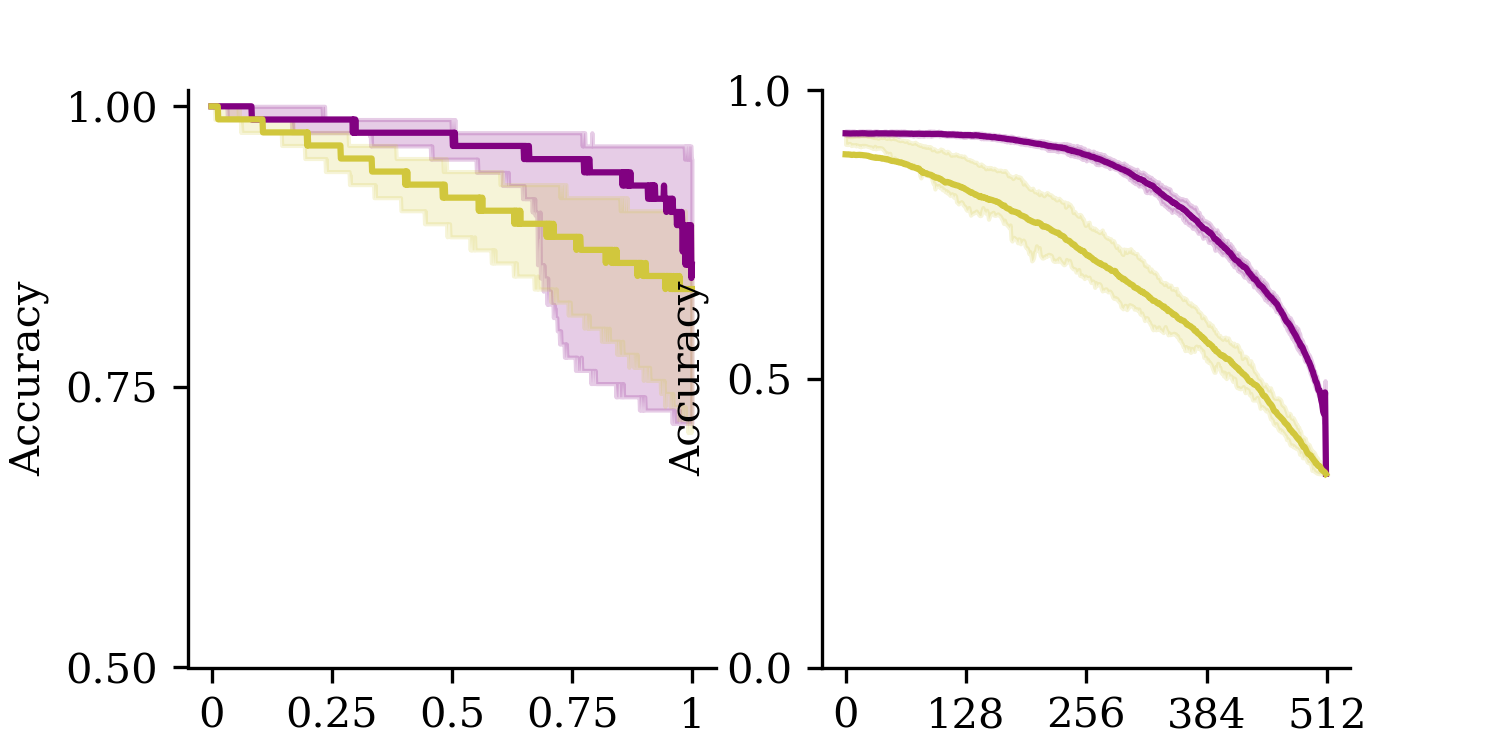
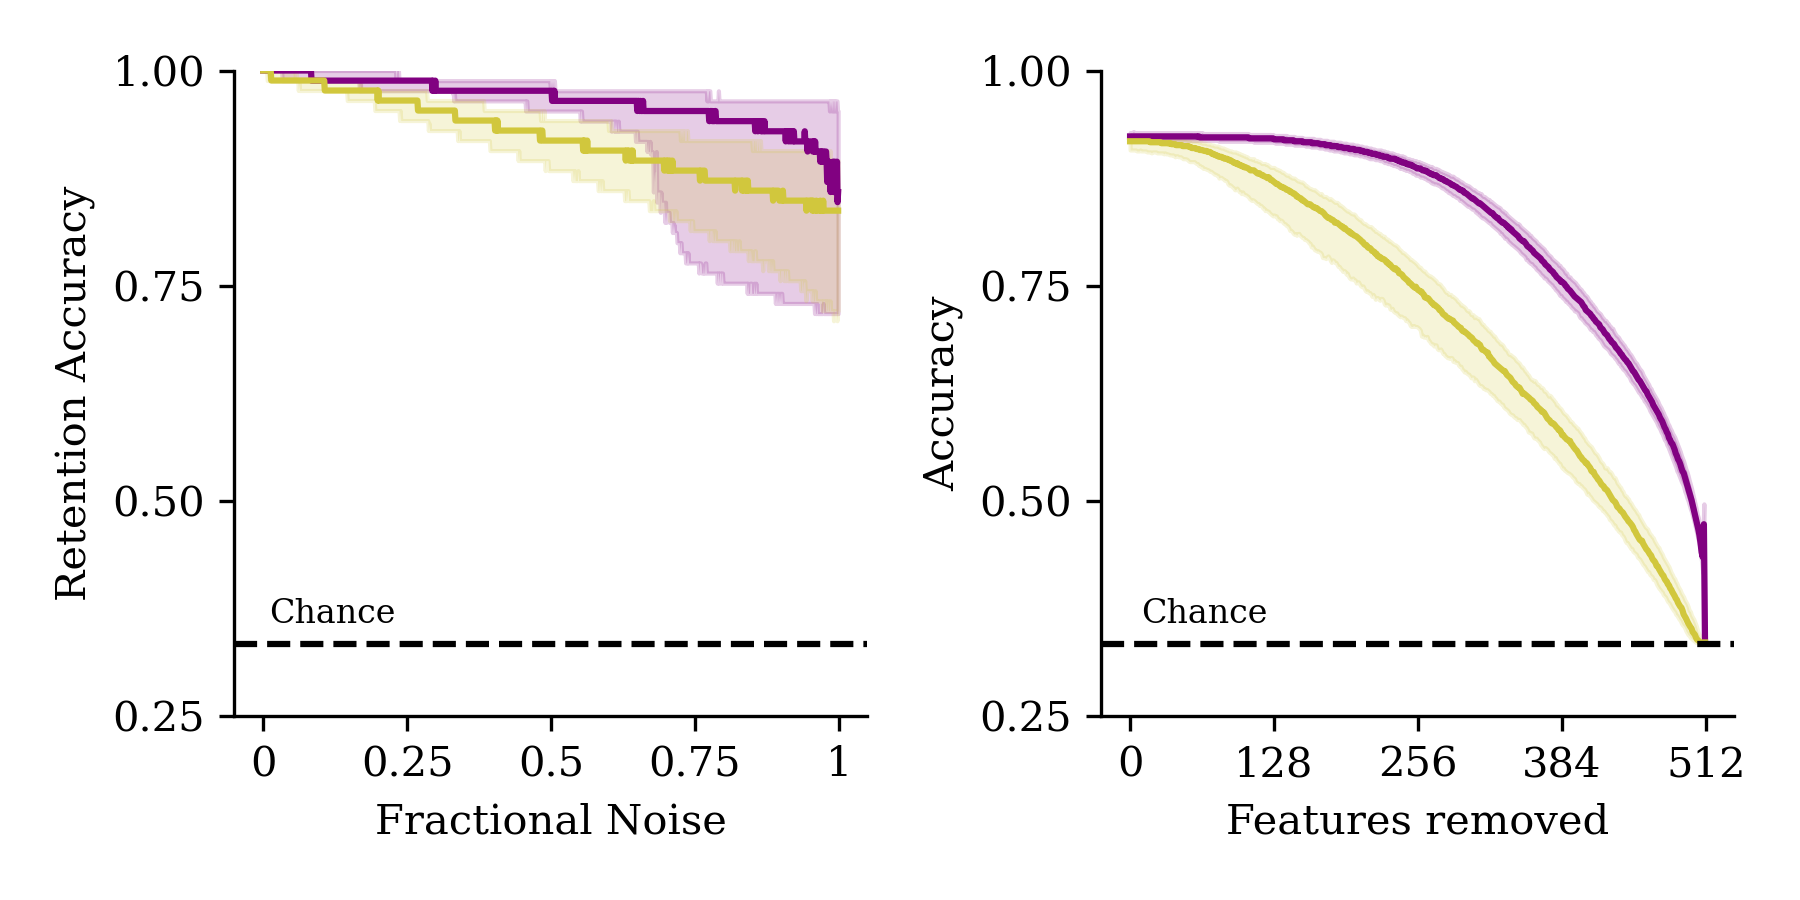
Updated scripts

diff --git a/scripts/ParameterRobustness.py b/scripts/ParameterRobustness.py
@@ -81,8 +81,8 @@ saveSuffix = "{}n{}s{}t-{}r".format(globers["maxNoise"], globers["nSteps"], glob
 ennAccs = np.load(logMan.outputDir + "/ennAccs_{}.npy".format(saveSuffix))
 mlpAccs = np.load(logMan.outputDir + "/mlpAccs_{}.npy".format(saveSuffix))
 
-figWidth = 5
-figHeight = 2.5
+figWidth = 6
+figHeight = 3
 fig, ax = plt.subplots(1, 2, figsize=(figWidth, figHeight))
 
 showQuartiles = True
@@ -97,7 +97,7 @@ if showQuartiles:
                     np.quantile(mlpAccs, 0.75, axis=0), alpha=0.2, color=cC.networkColors["mlp"])
     
 ax[0].set_xlabel("Fractional Noise")
-ax[0].set_ylabel("Accuracy")
+ax[0].set_ylabel("Retention Accuracy")
 
 # Variables
 globers = {
@@ -106,7 +106,7 @@ globers = {
     "trainTestSplit": 0.8,
     "nHiddenLayers": 2,
     "nHiddenNeurons": 3,
-    "nTrials": 50
+    "nTrials": 1000,
 }
 
 enners = {
@@ -134,7 +134,7 @@ for i in range(globers["nTrials"]):
     mdlENN = lB.main_0(xTrain, yTrain, enners["subconceptSelector"], globers["nHiddenNeurons"])
 
     inputWeights = mdlENN.layers[0].weights
-    inputWeightsFrame = np.reshape(inputWeights, (4, 512, 3))
+    inputWeightsFrame = np.reshape(inputWeights, (4, nFeatures, 3))
     inputWeightsFrameAvg = np.mean(np.abs(inputWeightsFrame), axis=0)
     inputWeightsFrameAvgAvg = np.mean(inputWeightsFrameAvg, axis=1)
 
@@ -184,8 +184,8 @@ for i in range(globers["nTrials"]):
 mlpMask = accsMLP[:,0] > 0.5
 convergedMLPs = accsMLP[mlpMask]
 
-ax[1].plot(np.mean(accsENN, axis=0), label="ENN", color=cC.networkColors["enn"])
-ax[1].plot(np.mean(convergedMLPs, axis=0), label="Backprop", color=cC.networkColors["mlp"])
+ax[1].plot(np.median(accsENN, axis=0), label="ENN", color=cC.networkColors["enn"])
+ax[1].plot(np.median(convergedMLPs, axis=0), label="Backprop", color=cC.networkColors["mlp"])
 
 if showQuartiles:
     ax[1].fill_between(range(nFeatures), np.quantile(accsENN, 0.25, axis=0), 
@@ -193,12 +193,24 @@ if showQuartiles:
     ax[1].fill_between(range(nFeatures), np.quantile(convergedMLPs, 0.25, axis=0), 
                     np.quantile(convergedMLPs, 0.75, axis=0), alpha=0.2, color=cC.networkColors["mlp"])
 
-ax[0].set_yticks([0.5, 0.75, 1.0])
-ax[1].set_yticks([0., 0.5, 1.0])
+# Add horizontal line for chance (0.33)
+ax[0].axhline(y=1/3, color='black', linestyle='--')
+ax[1].axhline(y=1/3, color='black', linestyle='--')
+
+# Annotate chance line
+ax[0].text(10, 1/3+.025, "Chance", fontsize=8)
+ax[1].text(10, 1/3+.025, "Chance", fontsize=8)
+
+ax[0].set_ylim([0.25, 1.0])
+ax[1].set_ylim([0.25, 1.0])
+
+ax[0].set_yticks([0.25, 0.5, 0.75, 1.0], labels=["0.25", "0.50", "0.75", "1.00"])
+ax[1].set_yticks([0.25, 0.5, 0.75, 1.0], labels=["0.25", "0.50", "0.75", "1.00"])
 ax[1].set_xticks([0, 128, 256, 384, 512])
 ax[1].set_xlabel("Features removed")
 ax[1].set_ylabel("Accuracy")
 
+fig.tight_layout()
 fig.savefig(logMan.mediaDir + "/Fig3e.png",
             transparent=True, 
             dpi=300)

diff --git a/scripts/VariableSplitsAndReproducibility.py b/scripts/VariableSplitsAndReproducibility.py
@@ -7,7 +7,7 @@ Author: James R. Elder
 Institution: UTSW
 
 DOO: 12-02-2024
-LU: 12-02-2024
+LU: 01-16-2025
 
 Reference(s): 
     - bdENS/develop/scripts/LearningSolution.py
@@ -200,8 +200,8 @@ endHex = "#d1c73d"
 ennGradient = cF.genColorGradient(startHex, cC.networkColors["enn"], nSplits)
 mlpGradient = cF.genColorGradient(startHex, cC.networkColors["mlp"], nSplits)
 
-figWidth = 8
-figHeight = 6
+figWidth = 5
+figHeight = 5
 fig, ax = plt.subplots(4, 3, figsize=((figWidth, figHeight)))
 
 ax[3,0].hist(ennl1weightsNormAbsAvg.flatten(), bins=inputBins, edgecolor='black', color=enners["cPlot"], label="ENN")
@@ -252,12 +252,13 @@ ax[2,0].set_xlim([-0.01, 0.75])
 ax[1,0].set_xlim([-0.01, 0.75])
 ax[3,0].set_xlim([-0.01, 0.75])
 
-ax[0,1].set_xticks([0.01, 0.5, 1], labels=["0.01", "", "1"])
-ax[0,2].set_xticks([0.01, 0.5, 1], labels=["0.01", "", "1"])
+labels = ["1%", "", "100%"]
+ax[0,1].set_xticks([0.01, 0.5, 1], labels=labels)
+ax[0,2].set_xticks([0.01, 0.5, 1], labels=labels)
 ax[0,1].set_yticks([-1, 0, 1])
 ax[0,2].set_yticks([-1, 0, 1])
-ax[2,1].set_xticks([0.01, 0.5, 1], labels=["0.01", "", "1"])
-ax[2,2].set_xticks([0.01, 0.5, 1], labels=["0.01", "", "1"])
+ax[2,1].set_xticks([0.01, 0.5, 1], labels=labels)
+ax[2,2].set_xticks([0.01, 0.5, 1], labels=labels)
 ax[2,1].set_yticks([-1, 0, 1])
 ax[2,2].set_yticks([-1, 0, 1])
 
